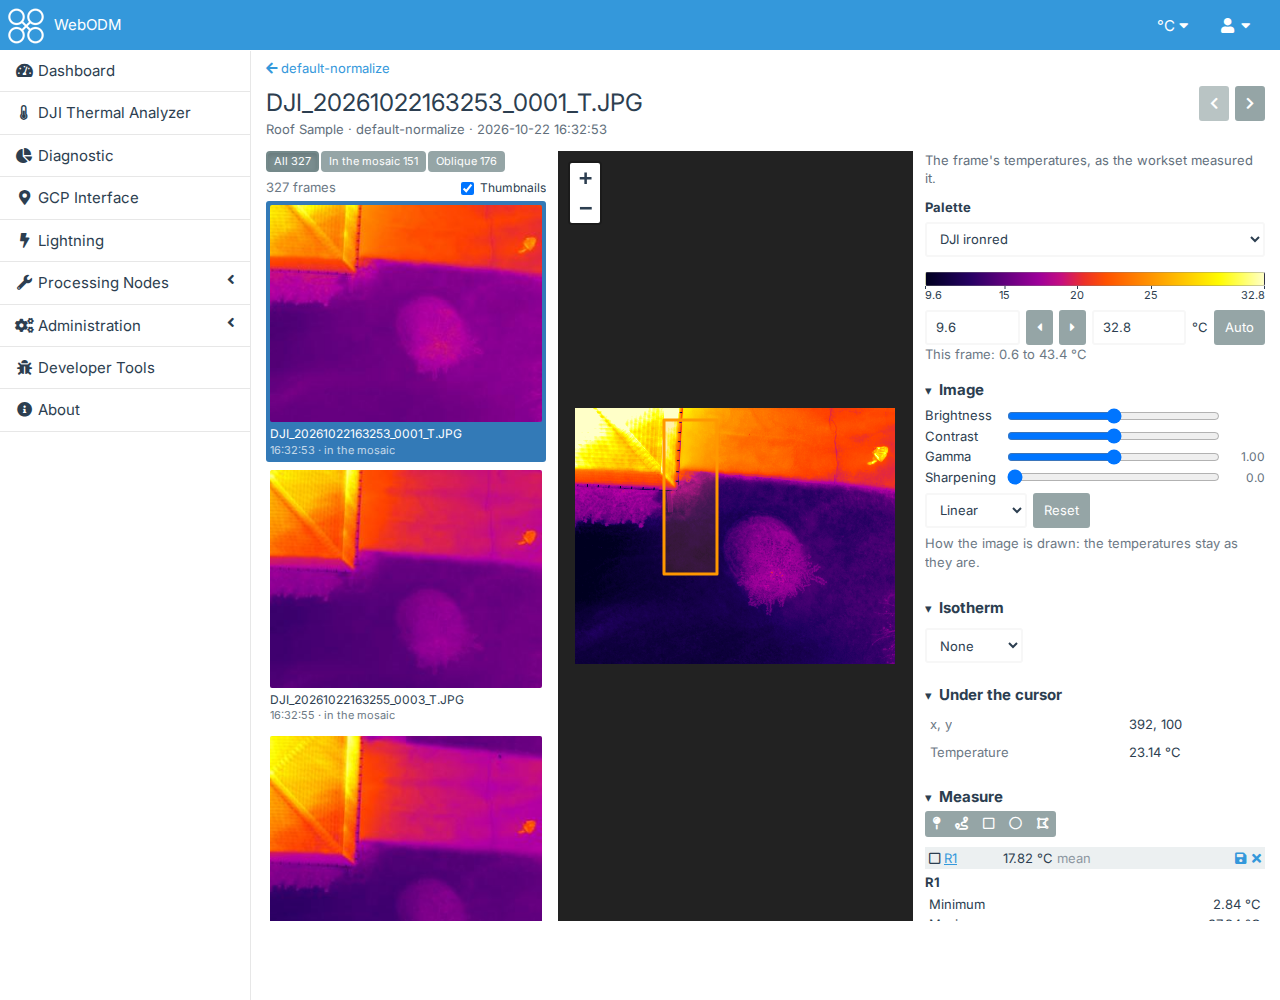
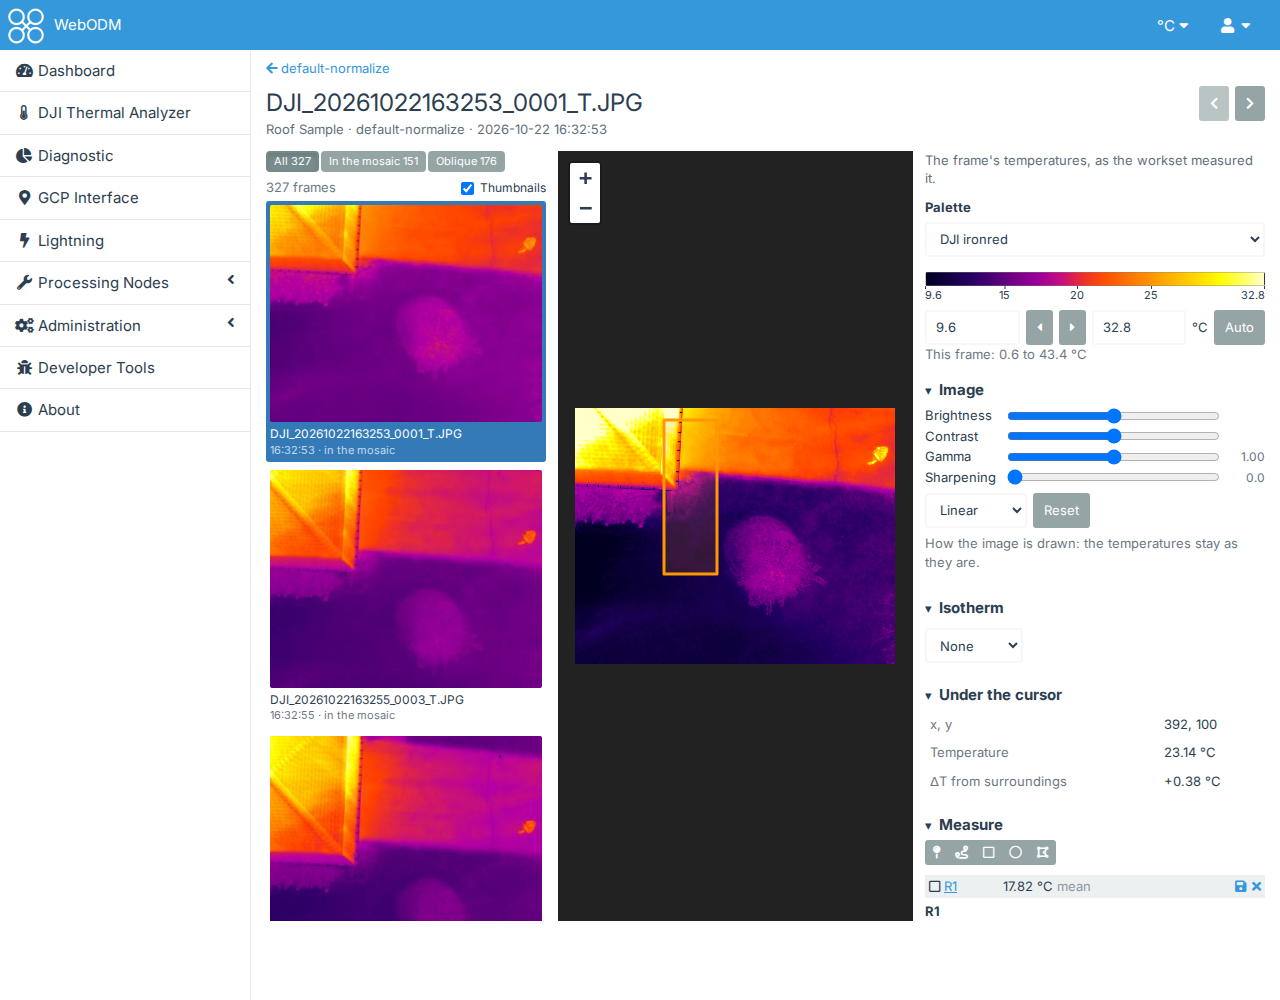
R6: ΔT from surroundings documented, the frame page's screenshot retaken; plan: R6 built

diff --git a/docs/api.md b/docs/api.md
@@ -46,10 +46,10 @@ workset's id (12 hexadecimal characters).
 | GET | `.../mosaics/<tab>/values/<z>/<x>/<y>.png` | The values (in the tab's unit) a tile is drawn from, for the browser to colour: a PNG whose red and green hold a 16-bit code (the value is `X-Values-Offset` + code × `X-Values-Step`), blue the source frames' seams (1 and 2), alpha where there are values, with `X-Values-Margin` more pixels on each side and the sharpening's sigma in `X-Sharpen-Sigma`. |
 | GET | `.../mosaics/<tab>/histogram` | A temperature tab's histogram (`counts`, `edges`; `intensify`'s of its differences), for the browser's equalization. |
 | GET | `.../mosaics/<tab>/curve?rescale=&gamma=&equalize=` | How the tab's images are drawn, for the colour scale: the palette's share at 65 values evenly across the range. |
-| GET | `.../mosaics/<tab>/point?lon=&lat=` | The temperature, frame, frame pixel (the frame's column and row) and view angle at a point; on `intensify`, also `difference` (the pixel's difference from its surroundings), with `temperature` the harmonized mosaic's. |
+| GET | `.../mosaics/<tab>/point?lon=&lat=` | The temperature, frame, frame pixel (the frame's column and row) and view angle at a point; `difference` on the temperature tabs (the temperature less the median within about 2 m; on `harmonized` Intensify's value); on `intensify`, `difference` is the tab's value, with `temperature` the harmonized mosaic's. |
 | GET | `.../mosaics/<tab>/frames?lon=&lat=`, `.../frames/<index>.png` | The frames that saw a point; one frame's picture. |
 | GET | `.../conversions/<workset>/frames` | The frame page's list: the dataset's thermal frames (`path`, `time`, `pitch`, `converted`, `mosaic`: its place among the mosaics' frames or null), the workset's unit, whether it normalized or harmonized, the mosaics' pitch limit, the palettes and your default. |
-| GET | `.../conversions/<workset>/frame?frame=` | A frame measured as the workset converted it, or with `distance`, `humidity`, `emissivity`, `reflected_temp`, `ambient_temp` changed (temperatures in the workset's unit): its size, what the SDK measured with (`params`, °C), what the camera recorded, the distance's source, notes, the normalization's offset and its range, mean and histogram. |
+| GET | `.../conversions/<workset>/frame?frame=` | A frame measured as the workset converted it, or with `distance`, `humidity`, `emissivity`, `reflected_temp`, `ambient_temp` changed (temperatures in the workset's unit): its size, what the SDK measured with (`params`, °C), what the camera recorded, the distance's source, notes, the normalization's offset and its range, mean and histogram, and `pixel_m` (a pixel's ground width: the distance over the focal length in pixels, or null) with `size_m` (2: the neighbourhood the page's ΔT from surroundings uses). |
 | GET | `.../conversions/<workset>/frame/values?frame=` | The frame's values (with the same changes) for the browser to colour, as a mosaic tab's `values` with no margin. |
 | POST | `.../conversions/<workset>/frame/region` | What a pin, line or polygon drawn in a frame's pixels (`geometry`, x right and y down, with `frame`, `changes` and `isotherm` in °C) measures, in °C, as the Thermal Inspector's `region`; sizes in pixels. |
 | GET | `.../conversions/<workset>/frame/download?frame=&kind=` | The frame's temperatures (with the changes) as `csv` or a float `tiff`. |
@@ -67,7 +67,7 @@ On a task with a thermal orthophoto, under `projects/<project>/tasks/<task>/insp
 
 | Method | Path | What it does |
 | --- | --- | --- |
-| GET | `point?lon=&lat=` | The temperature at a point, or why there's none. |
+| GET | `point?lon=&lat=` | The temperature at a point (°C), or why there's none; `difference`: the temperature less the median of the pixels within about 2 m around it (inside the crop). |
 | POST | `region` | The statistics and histogram of a GeoJSON polygon, or of a line (a strip 0.25 m either side, with its length and profile), with the surroundings' mean and ΔT; `isotherm: {low, high}` (°C, either null) adds the share of its pixels within them; `correction: {emissivity, reflected}` (°C) corrects the temperatures first, from what the orthophoto's TIFFs record (refused when they don't). Nothing is kept. The mosaics' `region` takes the same. |
 | GET, POST | `measurements` | The measurements saved on the task's orthophoto, with what it was measured with (`baseline`: `{emissivity, reflected}` or null), whether you can change them (`can_change`) and the palette it opens in for a user without one of their own (`palette`, chosen in DJI Thermal Task, or `""`); saves one (`{name, comment, shape, geometry, circle, isotherm, correction}`: a pin's `geometry` a point), measured on the server. |
 | PATCH, DELETE | `measurements/<id>` | Renames a saved measurement or changes its comment (`{name, comment}`); deletes it. |

diff --git a/upcoming-changes.md b/upcoming-changes.md
@@ -10,7 +10,14 @@
   color_map value" and the map shows nothing. 3.3.2 has them. Proposed fix: those three drawn by the plugin's
   Inspector tiles, as DJI's palettes are (the `display` API names the colour maps WebODM's tiler lacks); a test, and
   a check on both stacks.
-- **R6. The difference from the surroundings under the cursor, on every page with Under the cursor** (the user,
+**Later**
+- **Kelvin on screen** (the user, 2026-11-07: dropped from the header unit, "we may decide to add it back later if
+  webodm adds more traditional Kelvin support"): only once WebODM's units offer it.
+- **Server-folder datasets** for administrators (photos read in place on the server), in the Analyzer; replaces
+  the earlier "Folder conversion" item (below).
+
+**Done**
+- **R6. The difference from the surroundings under the cursor, on every page with Under the cursor** (built 2026-11-08; the user,
   2026-11-08, in the session): "Add the temperature Difference feature for Under the Cursor to the rest of the pages
   with the same control". Builds on R4: the mosaic viewer's Intensify tab shows, under the cursor, "Difference
   +2.13 °C from its surroundings" beside the temperature. The pages with an Under the cursor section are the mosaic
@@ -29,14 +36,25 @@
   Open: the row's name on every page (proposed: "Surroundings", e.g. "-2.60 °C", Intensify's row renamed alike);
   whether the Thermal Inspector's Hover readout on WebODM's map gets it too (it has no Under the cursor section;
   proposed: not now).
+  Decided (the user, 2026-11-08): the row is "Delta T from Surroundings" (written "ΔT from surroundings", as the
+  Inspector's regions write ΔT), Intensify's row renamed alike; the Thermal Inspector's Hover reading gets it too
+  (thermal orthophotos and the workset mosaics laid on the map).
+  Built, `r6-surroundings-readout`: `intensify.raster_difference` and `window_difference` (a point less the median of
+  a window about 2 m wide around it); `mosaics.point` gives `difference` on Mosaic and Source frame (the as converted
+  mosaic, around the point) and Harmonized (Intensify's value when built, else alike: mosaics built before R4 have it
+  too); `inspector.point` on a thermal orthophoto (its pixels with data inside the crop); `frames.info` sends `pixel_m`
+  (the measurement distance over dji-thermal-cli's `read_pose` focal length in pixels) and `size_m`, and `frame.js`
+  `surroundingsAt` works it out from the frame's values, for both measurements with Measure again ("ΔT from
+  surroundings, changed"). The Inspector shows it under the temperature in the panel (a mosaic's scaled to °C; with
+  Manual Corrections, `corrected(t) - corrected(t - ΔT)`), not in the label beside the cursor. Tests: Jest 303, Django
+  214 on 4.0.0 and 3.3.2 (1 skipped). Live on :8002, read only, on the user's HomerunObliqueII task and dataset:
+  "+0.60 °C" on Mosaic, "+0.89 °C" on Harmonized (as Intensify would: its mosaics were built before), none on View
+  angle; a point request in about 70 ms; the frame page "+0.49 °C"; the Inspector "52.52 °C ΔT from surroundings
+  +1.97 °C". Docs: the README, `quickstart-worksets.md`, `quickstart-inspector.md`, `measurement.md`, `api.md`,
+  `developing.md`; `frame-page.png` retaken. `inspector.png` kept as it was: retaken, its title showed the task's name
+  (HomerunObliqueII), which the docs' shots never show; to retake once the task has a neutral name.
 
-**Later**
-- **Kelvin on screen** (the user, 2026-11-07: dropped from the header unit, "we may decide to add it back later if
-  webodm adds more traditional Kelvin support"): only once WebODM's units offer it.
-- **Server-folder datasets** for administrators (photos read in place on the server), in the Analyzer; replaces
-  the earlier "Folder conversion" item (below).
 
-**Done**
 - **R4. Intensify: a mosaic tab of each pixel's difference from its surroundings** (built 2026-11-08; the user, 2026-11-08, in the
   session): "would it make sense to offer an \"Intensify\" option that actually makes temperature variances more
   distinct across the images? Example: I have a mosaic of a roof made from 10 images. Around pipe seams there's a

diff --git a/README.md b/README.md
@@ -278,7 +278,9 @@ over WebODM's base layers:
   without them;
 - an **Isotherm** on the temperature tabs and Intensify (above, below or between temperatures, or differences): its pixels keep the palette and the
   rest turns grey, on the map and in the frames' pictures;
-- the temperature, frame, frame pixel and view angle under the cursor;
+- the temperature, frame, frame pixel and view angle under the cursor, with **ΔT from surroundings** on the
+  temperature tabs: the temperature less the median of the pixels within about 2 m around it (on Harmonized the
+  value Intensify draws), so a spot cooler or warmer than the ground beside it reads as such whatever the range;
 - a click on the map keeps those values at that point, marked, until **Follow the cursor** (or Esc), and opens a
   window over the map with the **frames that saw that point** (the mosaic's own first, the
   others in turn with the arrows), each drawn in the tab's palette and range (on View angle, the angle each of its
@@ -304,7 +306,9 @@ its detail pane: the frame page of the newest workset that converted):
 - the frame, zoomed and moved like a map, coloured in your browser from its temperatures (opening in the workset's
   palette, else yours) with the mosaic viewer's palette, range, **Image** and **Isotherm** controls (Equalized from the frame's own histogram), following them as
   they move;
-- the temperature of the pixel under the cursor;
+- the temperature of the pixel under the cursor, and its **ΔT from surroundings** (the median of the frame's pixels
+  within about 2 m around it, from the distance it was measured at and its camera's focal length; for both
+  measurements with Measure again);
 - **Measure**: the Thermal Inspector's tools in the frame's pixels: a pin (a pixel's temperature), a line (a strip 1
   pixel either side of it, with its profile; hovering the profile marks its point), a rectangle, a circle or a
   polygon (the statistics, the surroundings, a ring 3 to 10 pixels wide, and ΔT, the isotherm's share and a
@@ -377,7 +381,9 @@ On WebODM's 2D map of a task whose orthophoto holds temperatures (a single therm
 DJI Thermal Task's images or a workset's), a thermometer button opens the Thermal Inspector. It isn't on maps of RGB
 orthophotos only, but for one the Analyzer's **Open on WebODM's map** opened, with a workset mosaic laid on it:
 
-- **Hover**: the temperature under the cursor, beside it and in the panel; outside the task's crop, outside the
+- **Hover**: the temperature under the cursor, beside it and in the panel, with its **ΔT from surroundings** in the
+  panel (the temperature less the median of the orthophoto's pixels within about 2 m around it, inside the crop;
+  with Manual Corrections, the point and its surroundings both corrected); outside the task's crop, outside the
   orthophoto and where it has no data it says so.
 - **Pin**: a click pins the point with its temperature, labelled P1, P2…, shown on the map instead of WebODM's
   popup. The pins are listed in the panel (click one to go to it), can be hidden and shown together, removed, and

diff --git a/docs/quickstart-worksets.md b/docs/quickstart-worksets.md
@@ -108,7 +108,8 @@ colours over the temperatures the mosaic has most of, and **Reset** goes back to
 They only change how the image is drawn, never the temperatures, and the map follows them as they move: your browser
 colours the mosaic from its temperatures, so nothing waits on the server. An **Isotherm** (above, below or between
 temperatures; on Intensify, differences) keeps the palette for the pixels in it and turns the rest grey. It shows the
-temperature, frame, frame pixel and view angle under the cursor, what dji-thermal-cli reports about the mosaic (seams,
+temperature, frame, frame pixel and view angle under the cursor (and on the temperature tabs its **ΔT from
+surroundings**: how much warmer or cooler it is than the median within about 2 m), what dji-thermal-cli reports about the mosaic (seams,
 misalignment, frame offsets), and the files to download.
 
 Click the map to keep the values at that point (**Follow the cursor**, or Esc, lets go of it) and to see **every frame
@@ -138,7 +139,8 @@ who can view the project.
 **Measure again** shows the frame's distance, humidity, emissivity, reflected and ambient temperature: as the camera
 recorded them, as the frame was measured with them, and fields to change them. Change one and press **Measure
 again** (or Enter): dji-thermal-cli measures the frame again, exactly as a workset with those settings would, and
-shows it beside the first, with both temperatures and their difference under the cursor. Pins and regions are
+shows it beside the first, with both temperatures and their difference under the cursor. Under the cursor also gives
+each one's **ΔT from surroundings**: the pixel less the median of the frame's pixels within about 2 m around it. Pins and regions are
 measured with the new values too.
 
 ![The frame measured again with another emissivity, beside the frame as converted](images/frame-measure-again.png)

diff --git a/docs/developing.md b/docs/developing.md
@@ -27,7 +27,7 @@ Everything the plugin ships is in `dji-thermal/` (the plugin's id, and the relea
 | `analysis.py` | The analysis job: dji-thermal-cli's check and WebODM plan over a dataset's photos. |
 | `conversions.py` | Worksets: their settings (checked in `parse_settings`), the conversion job (`convert`), the outputs' names, the palettes (`palettes()`, `COLORMAPS`), and each user's saved defaults and display preferences. |
 | `mosaics.py` | A workset's mosaics: the build job (`make`), and what the mosaic viewer reads (tiles, values, palettes). |
-| `intensify.py` | Each pixel's difference from its surroundings (the median over about 2 m), for the mosaic viewer's Intensify tab. |
+| `intensify.py` | Each pixel's difference from its surroundings (the median over about 2 m): the mosaic viewer's Intensify tab, and the ΔT from surroundings under the cursor (the viewer, the Thermal Inspector; the frame page works it out in `frame.js`). |
 | `colouring.py` | How tiles and frames are drawn: range, tone curve, equalization, sharpening, isotherm. |
 | `frames.py`, `frames_api.py` | The frame page: one frame as the workset measured it, or measured again with other values. |
 | `conversion_tasks.py` | A WebODM task made from a workset's temperature TIFFs. |

diff --git a/docs/measurement.md b/docs/measurement.md
@@ -92,6 +92,11 @@ difference and the harmonized temperature. Something as wide as the neighbourhoo
 metres across) fades out, and the edge between two surfaces at different temperatures shows a band of each colour
 along it. Mosaics built before the plugin had it show it once built again.
 
+The same difference is under the cursor wherever a temperature is: **ΔT from surroundings** in the mosaic viewer's
+temperature tabs, on the frame page and in the Thermal Inspector's Hover reading, the point less the median of the
+pixels within about 2 m around it (the frame page works out a frame pixel's ground size from the distance it was
+measured at and the camera's focal length). It needs no Intensify mosaic, so it works on mosaics built before it too.
+
 ## Trying other values on one frame
 
 The frame page's **Measure again** measures one frame with other values for the distance, humidity, emissivity,

diff --git a/docs/quickstart-inspector.md b/docs/quickstart-inspector.md
@@ -19,7 +19,8 @@ button is only on maps with temperatures: a thermal orthophoto, or a workset mos
 The top of the panel (the buttons, the temperature, Palette and the colour scale) stays in view while the sections
 below it scroll. The panel's buttons choose what a click on the map does:
 
-- **Hover**: the temperature under the cursor, beside it and in the panel.
+- **Hover**: the temperature under the cursor, beside it and in the panel, with its **ΔT from surroundings** (the
+  temperature less the median of the pixels within about 2 m around it) in the panel.
 - **Pin**: a click pins the point with its temperature (P1, P2…). The pins are listed in the panel; click one to go
   to it.
 - **Rectangle**, **circle** and **polygon**: draw a region (R1, R2…). For a rectangle or circle, press and drag. For
